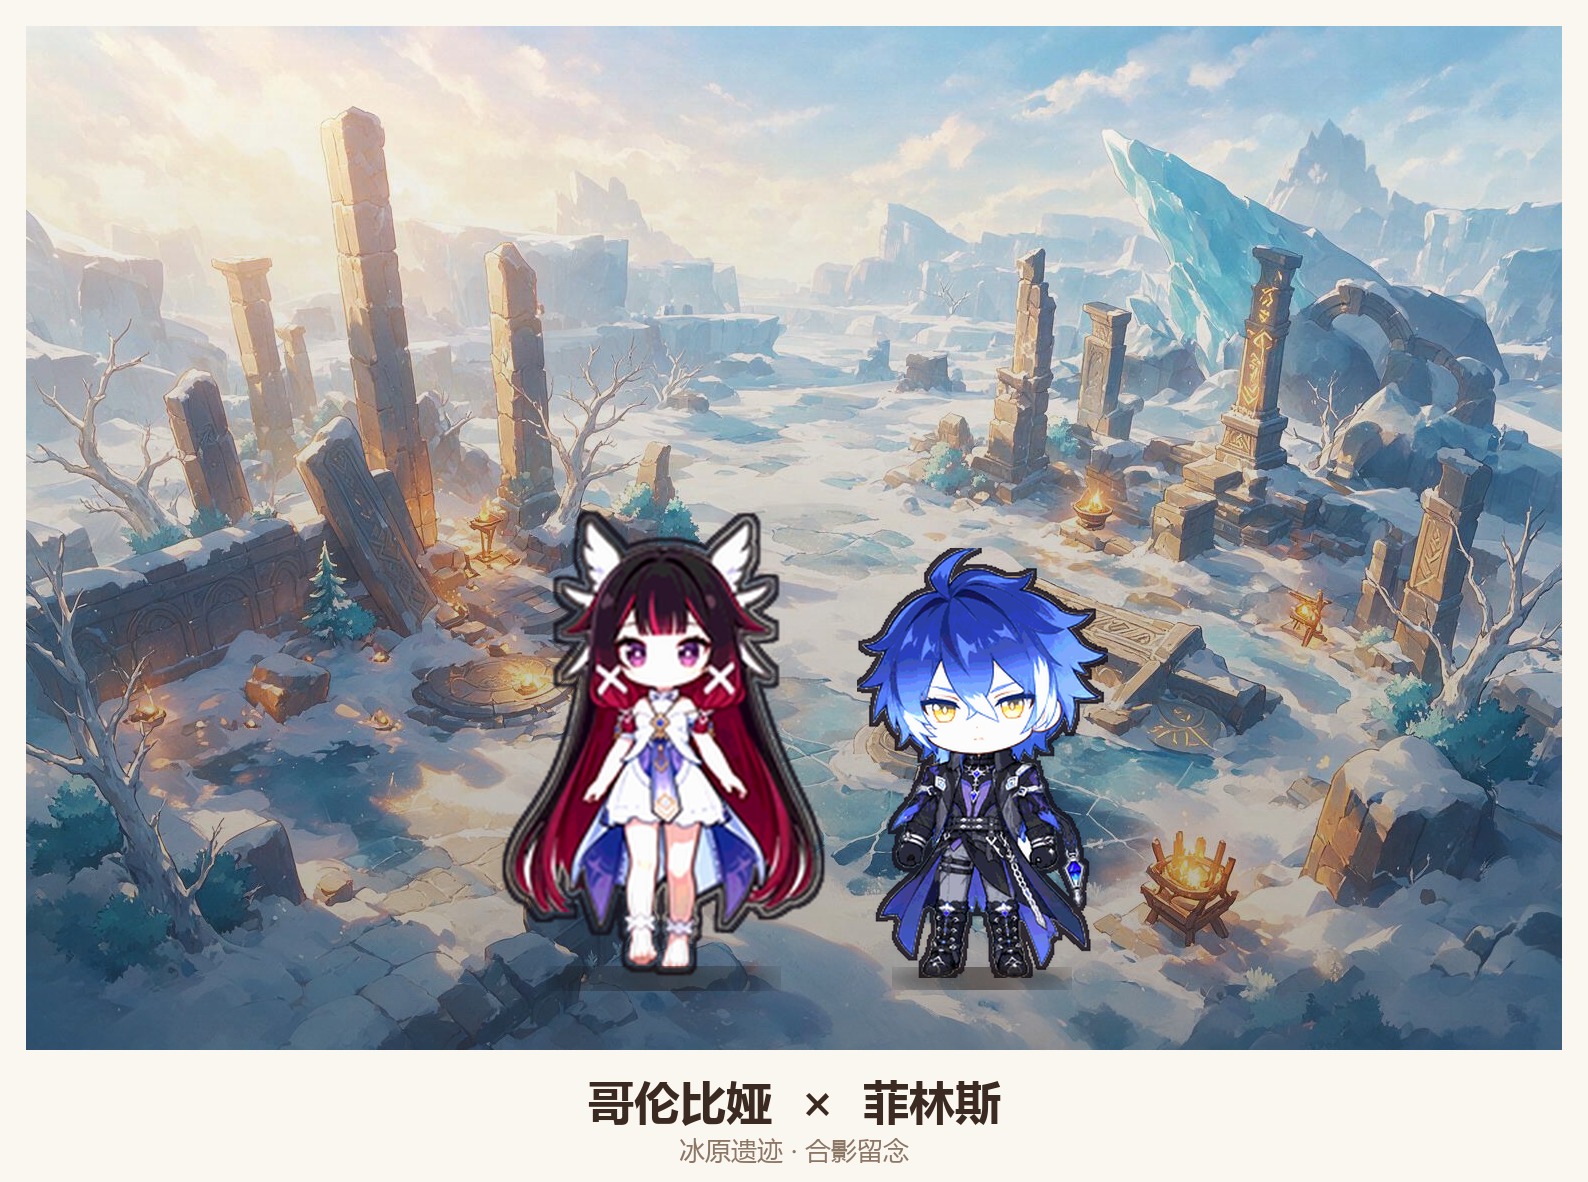
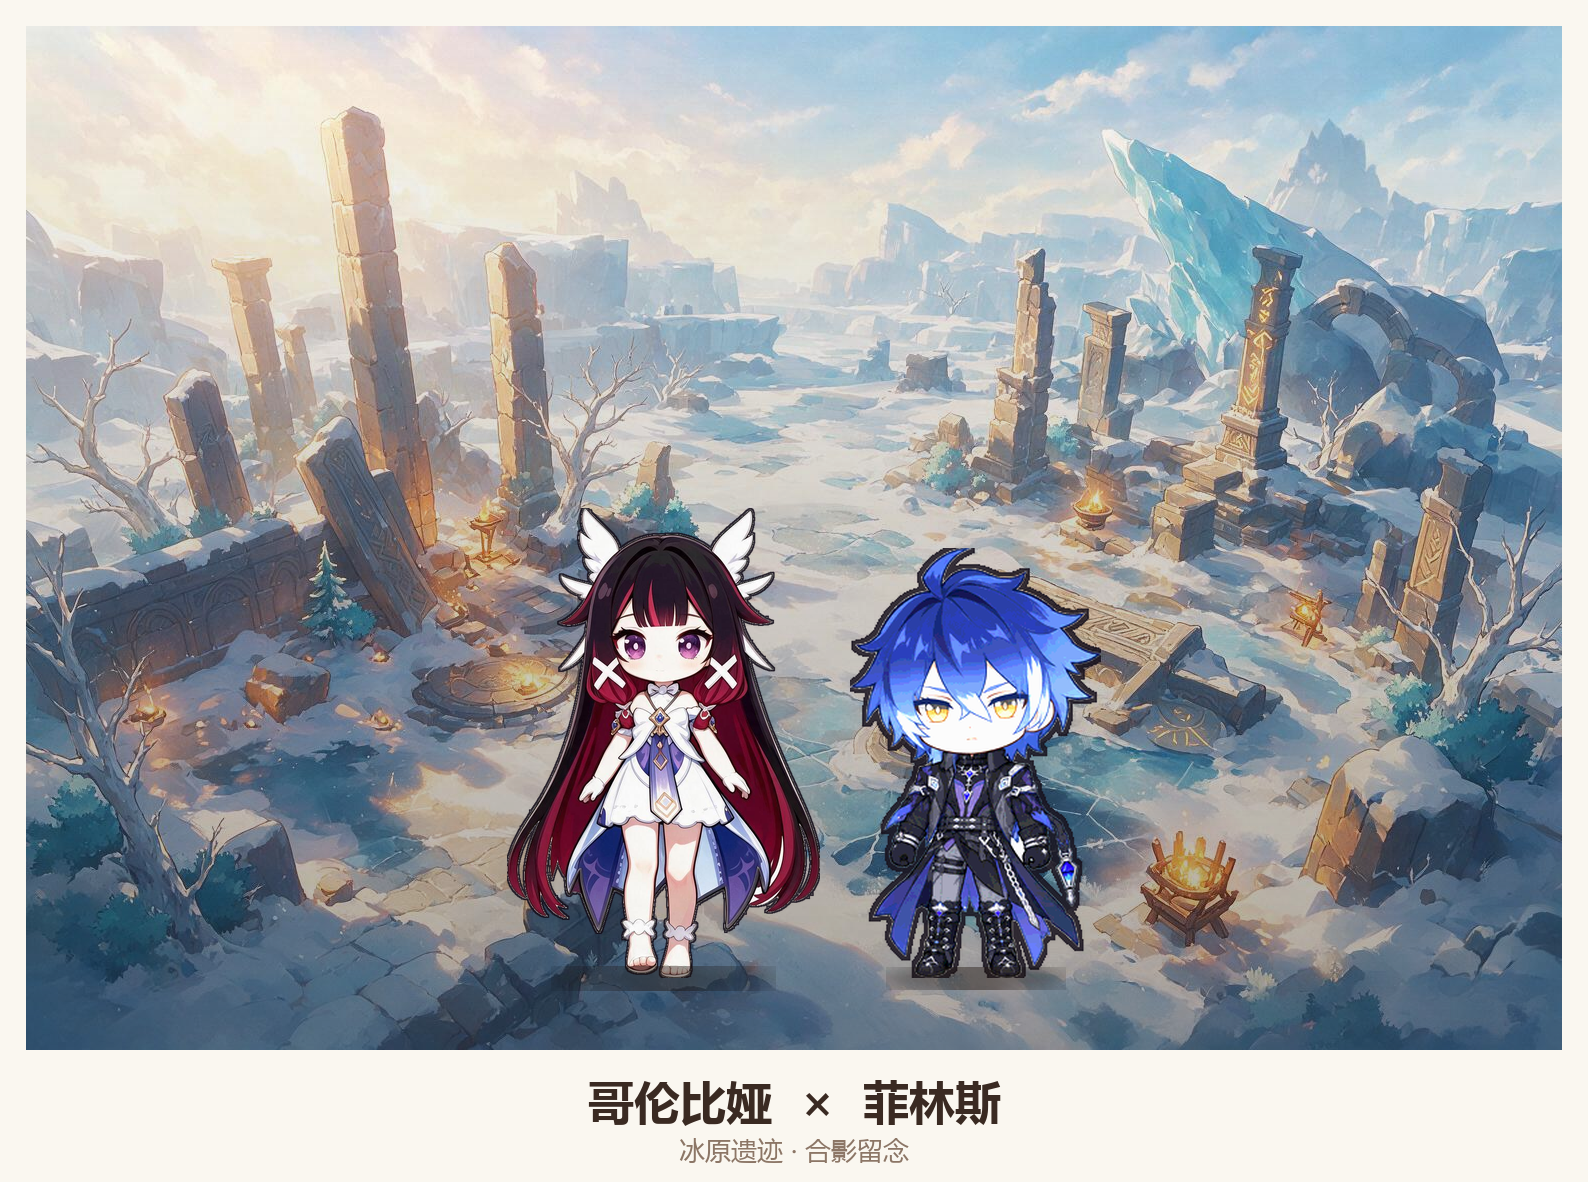
fix(venue): 结局「切蛋糕」三处修复 + 大合影补齐那维莱特 + 合影专用哥伦比娅立绘重绘

Changed region(s): [[0.3086, 0.4264, 0.7097, 0.8528]]

diff --git a/columbina-venue/src/VenueScene.js b/columbina-venue/src/VenueScene.js
@@ -648,6 +648,14 @@ export default class VenueScene extends Phaser.Scene {
       this.cameras.main.flash(420, 255, 236, 170);
       this.toast('所有委托都完成了 —— 大家围到了蛋糕旁');
     }
+
+    // ★ 结局任务「【结局】切蛋糕」是在 allDone() 之后才由 snapshot() 放出来的，
+    //   而任务面板只在 refreshQuestUI() 时重新渲染。
+    //   玩家在别的地图里做完最后一个委托时，面板停在旧的一版上 ——
+    //   回到会场也看不到「切蛋糕」那一条（用户 2026-10-09 反馈 2 的另一半）。
+    //   庆功宴一开就重刷一次，保证这条一定出现在列表里。
+    this.refreshQuestUI();
+
     return true;
   }
 
@@ -1154,6 +1162,37 @@ export default class VenueScene extends Phaser.Scene {
             return { x: npcDef.tileX * TILE_SIZE + 32, y: npcDef.tileY * TILE_SIZE + 32, crossScene: false, sceneId: npcDef.scene || 'venue' };
           }
           return this.exitPosTo(npcDef.scene || 'venue');
+        }
+      }
+
+      // ★ 交互点类委托（结局「切蛋糕」）
+      //
+      //   q-party-cake 的 target 是 { type: 'interact', count: 1 }，
+      //   目标位置同样写在**交互点**上（ip-party-cake → 会场主位 19,9），不在任务里。
+      //
+      //   早先这里没有 interact 分支，于是它一个都不匹配，一路掉到最下面
+      //   「去找委托官」—— 而那时所有委托都已经完成、没有 available 的了，
+      //   getGuideTarget() 直接 return null，任务面板点「前往」只会弹
+      //   「没有需要前往的地方」。
+      //   用户 2026-10-09 报的「结局切蛋糕点击前往，提示没有要前往的地方」就是这个。
+      if (t.type === 'interact') {
+        const ip = INTERACT_POINTS.find((x) => x.questId === active.id);
+        if (ip) {
+          // actionLabel 让 handleGotoQuest 报出「去干什么」，
+          // 不然同场景只会说一句「找找发光的地方」，玩家仍然不知道要去哪
+          const label = ip.label || active.title || '目标地点';
+          if (ip.scene === here) {
+            return {
+              x: ip.tileX * TILE_SIZE + 32,
+              y: ip.tileY * TILE_SIZE + 32,
+              crossScene: false,
+              sceneId: here,
+              actionLabel: label,
+            };
+          }
+          const exit = this.exitPosTo(ip.scene);
+          if (exit) exit.actionLabel = label;
+          return exit;
         }
       }
     }
@@ -1783,11 +1822,38 @@ export default class VenueScene extends Phaser.Scene {
    * 以后别的收集任务也能直接复用。
    */
   doExchangeItem(p) {
-    if (p.doneItem && this.hasItem(p.doneItem)) {
+    // ★ 补计数（修「打水委托永远交不了」的死锁）
+    //
+    //   和 doCollectItem 是【同一类】问题，当时只修了那边、漏了这个：
+    //
+    //   背包 localStorage['venue-items-v1'] —— 【没有按天分桶】；
+    //   任务状态 localStorage['venue-quests-v2'] —— 【按天分桶，跨天自动重置】。
+    //   于是跨天之后：玩家身上还揣着「装满水的桶」，但委托被重置回
+    //   active / 计数 0。再到池塘取水处按 E，旧写法第一句
+    //       if (p.doneItem && this.hasItem(p.doneItem)) { toast(doneHint); return; }
+    //   就提前 return 了 —— 界面提示「桶已经装满了，赶紧送回去吧」，
+    //   可 markCollect() 从来没被调用，计数永远是 0，委托永远到不了 ready，
+    //   回奈芙尔那里自然还是「还在进行中 / 去打水」。
+    //
+    //   用户 2026-10-09 报的就是这个：「提示打好了水可以交了，
+    //   但是回奈芙尔那里还是让我去打水」。
+    //
+    //   现在：身上有成品但任务计数还是 0 时，不再重复发东西，但**把计数补上**。
+    const qid = p.questId;
+    const counted = qid ? this.quests.getCounter(qid) : 1;
+    const alreadyHas = !!(p.doneItem && this.hasItem(p.doneItem));
+
+    // 真的已经换好了：提示一句就走
+    if (alreadyHas && counted >= 1) {
       this.toast(p.doneHint || '已经做好了');
       return;
     }
-    if (p.needItem && !this.hasItem(p.needItem)) {
+
+    // 需要前置物品但身上没有。
+    // ★ 注意要加 !alreadyHas：已经有成品时不该再要空桶 ——
+    //   那个空桶在【上一次】换水的时候就已经被消耗掉了，
+    //   再加这个条件会把补计数分支也挡在门外，死锁照样存在。
+    if (!alreadyHas && p.needItem && !this.hasItem(p.needItem)) {
       this.dialog.open(
         { name: p.labelText || p.label || '提示', portrait: '❓', portraitBg: '#2a2a33' },
         [{ text: p.needHint || '你还没有需要的东西。' }],
@@ -1796,8 +1862,11 @@ export default class VenueScene extends Phaser.Scene {
       return;
     }
 
-    if (p.needItem) this.takeItem(p.needItem);
-    if (p.giveItem) this.giveItem(p.giveItem, p.giveName);
+    // 只有真的要换物时才动物品栏；补计数那一路不重复发东西
+    if (!alreadyHas) {
+      if (p.needItem) this.takeItem(p.needItem);
+      if (p.giveItem) this.giveItem(p.giveItem, p.giveName);
+    }
     if (p.collectId) this.quests.markCollect(p.collectId, 1);
 
     if (p.okText) {
@@ -2324,6 +2393,12 @@ export default class VenueScene extends Phaser.Scene {
       return '把邀请函投进信箱';
     }
     if (t.type === 'openGame') return '玩一次小游戏';
+    // 交互点类（结局切蛋糕）：提示语直接取交互点的 label，
+    // 免得任务列表里这一条的目标栏是空的
+    if (t.type === 'interact') {
+      const ip = INTERACT_POINTS.find((x) => x.questId === q.id);
+      return ip ? `去主会场主位「${ip.label || '互动'}」` : '去主会场主位切蛋糕';
+    }
     return '';
   }
 
@@ -2351,6 +2426,11 @@ export default class VenueScene extends Phaser.Scene {
     const s = SCENES.find((x) => x.id === sceneId);
     const mapName = s ? s.name : sceneId;
 
+    // ★ actionLabel：交互点类目标（结局切蛋糕）在 getGuideTarget 里带上了
+    //   「去干什么」。不带的话同场景只会说「找找发光的地方」，
+    //   玩家仍然不知道该去哪 —— 用户 2026-10-09 要的「正确指引主会场」。
+    const act = target.actionLabel ? `「${target.actionLabel}」` : '';
+
     if (target.crossScene) {
       // 中转场景：10 个场景连成一环，目标常常不挨着 ——
       // 光说「目标在 X」玩家还是不知道该往哪走，所以把「第一步先去哪」也报出来。
@@ -2359,10 +2439,16 @@ export default class VenueScene extends Phaser.Scene {
         ? SCENES.find((x) => x.id === viaId)
         : null;
       if (via) {
-        this.toast(`目标在「${mapName}」—— 先走传送光圈去「${via.name}」`);
+        this.toast(act
+          ? `要去「${mapName}」的${act} —— 先走传送光圈去「${via.name}」`
+          : `目标在「${mapName}」—— 先走传送光圈去「${via.name}」`);
       } else {
-        this.toast(`目标在「${mapName}」—— 从这张地图的传送光圈过去`);
+        this.toast(act
+          ? `要去「${mapName}」的${act} —— 从这张地图的传送光圈过去`
+          : `目标在「${mapName}」—— 从这张地图的传送光圈过去`);
       }
+    } else if (act) {
+      this.toast(`${act}就在这张地图上（「${mapName}」）—— 走到发光的地方按 E`);
     } else {
       this.toast(`目标在「${mapName}」—— 就在眼前这张地图上，找找发光的地方`);
     }

diff --git a/columbina-venue/src/InteractPoints.js b/columbina-venue/src/InteractPoints.js
@@ -157,7 +157,7 @@ export default class InteractPointSystem {
       //   emoji 依赖系统字体，在没有该字体的环境里会渲染成「豆腐块」白方块，
       //   而且大小和位置不好控制。
       //   这里改成用代码画：一个圆底 + 一个简单符号，任何环境都一样。
-      const icon = this.makeIcon(x, y + iconDy, resolve(def.shape, this.story));
+      const icon = this.makeIcon(x, y + iconDy, resolve(def.shape, this.story), def.iconDepth);
 
       // 名字（只在靠近时显示，平时不显示以免画面杂乱）
       const labelObj = this.scene.add.text(x, y + labelDy, resolve(def.label, this.story), {
@@ -166,7 +166,7 @@ export default class InteractPointSystem {
         color: '#ffe9b8',
         backgroundColor: '#000000aa',
         padding: { x: 6, y: 2 },
-      }).setOrigin(0.5).setDepth(INTERACT_ICON_DEPTH).setVisible(false);
+      }).setOrigin(0.5).setDepth(def.labelDepth || INTERACT_ICON_DEPTH).setVisible(false);
 
       // 轻微上下浮动，让静物有点生气
       this.scene.tweens.add({
@@ -201,9 +201,10 @@ export default class InteractPointSystem {
    * 做法：半径 13 的圆底 + 中间一个小符号。
    * 符号用 shape 代号，没有对应形状就用一个小菱形兜底。
    * @param {string} s 已经求值过的 shape 代号
+   * @param {number} [depth] 该点单独的图层；不传就用全局 INTERACT_ICON_DEPTH
    */
-  makeIcon(x, y, s) {
-    const g = this.scene.add.graphics().setDepth(INTERACT_ICON_DEPTH);
+  makeIcon(x, y, s, depth) {
+    const g = this.scene.add.graphics().setDepth(depth || INTERACT_ICON_DEPTH);
 
     // 圆底
     g.fillStyle(0x2a2018, 0.72);

diff --git a/columbina-venue/src/quests.js b/columbina-venue/src/quests.js
@@ -355,9 +355,23 @@ export const INTERACT_POINTS = [
     // （hideWhenUnavailable + requires，见 InteractPoints.rebuild）
     requires: 'partyTime',
     hideWhenUnavailable: true,
-    // ★ 这个点落在桌子前沿上：图标和文字都要抬到桌面之上，
-    //   否则会被大桌子（depth 450）盖住，玩家根本看不见。
-    iconDy: -34,
-    labelDy: -66,
+    // ★ 这个点落在桌子前沿上：图标和文字要抬到**桌面之上**，否则会被大桌子盖住。
+    //
+    //   桌子精灵： banquet-table.png，世界包围盒 x 555~2005 / y 512~968，depth 450
+    //   主位坐标： tile (19,9) → 世界 (1248, 608)
+    //   主角盒子： origin(0.5,0.85)、displayHeight 192 → y 445~637
+    //
+    //   走过的弯路（2026-10-09 记）：
+    //     v1 只改 iconDy=-34 / labelDy=-66，图标落到世界 y≈573 —— **仍在桌子包围盒里**，
+    //        全局 INTERACT_ICON_DEPTH=420 < 450，照样被压住。
+    //     v2 把这一条点的图层单独提到 460（>桌子 450、>围坐主角 430）—— 看得见了，
+    //        但它也高过了围坐的主角，破坏了全项目统一的
+    //        「互动点在地图之上、哥伦比娅之下」规则（_verify_round7 会红）。
+    //     v3（现行）：图层保持全局默认 420，改成把**位置**抬出桌子包围盒 ——
+    //        图标世界 y = 608-190 = 418（< 桌子顶边 512，也 < 主角盒子顶边 445），
+    //        名牌 y = 608-222 = 386。
+    //        既不会被桌子盖住，也仍然在主角之下，两条规则同时成立。
+    iconDy: -190,
+    labelDy: -222,
   },
 ];
